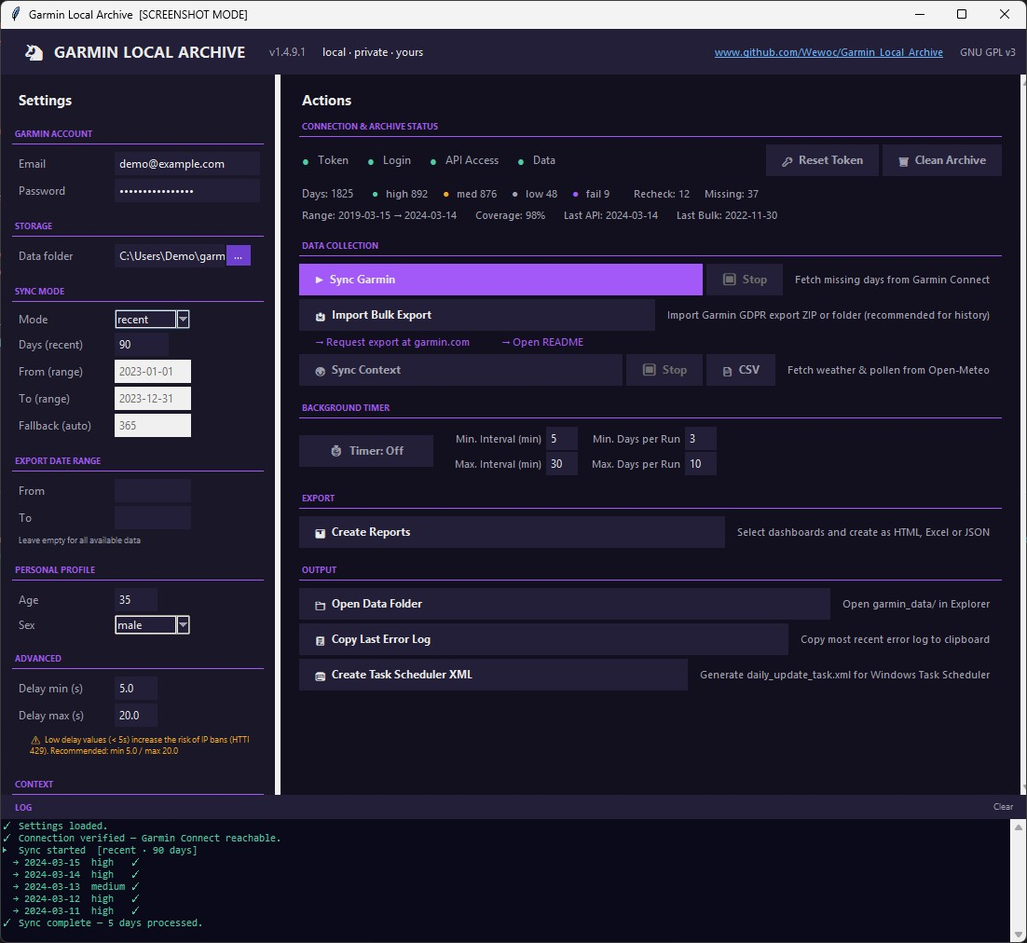
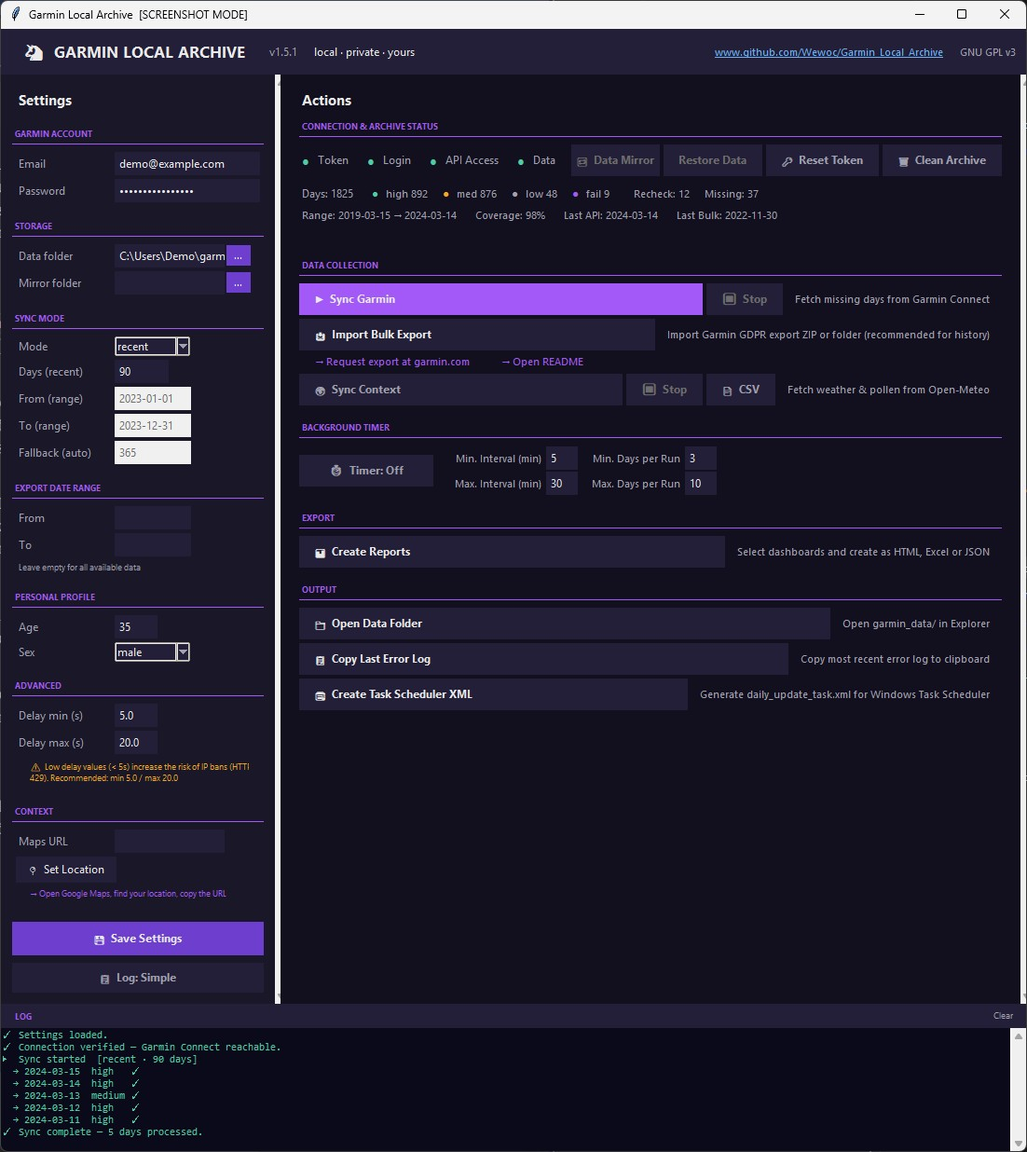
Garmin Local Archive:
## What's new

**Automatic raw file backup**
Every raw file is backed up immediately after writing — incremental, by month. Completed months are stored as ZIP archives in `garmin_data/backup/raw/`. Existing archives are secured on first sync via a one-time backfill (popup on first run after update).

**quality_log.json integrity**
SHA-256 checksum on every save. Verified on every load. Mismatch triggers automatic restore from the latest backup and a warning in the GUI.

**Restore Data**
Startup check compares quality_log against actual raw files. Missing files are restored from backup automatically. Days without backup are listed for manual re-fetch.

**Data Mirror**
One-click copy of the full archive to a second location — NAS, USB, OneDrive, any local path. Configure once in Settings → Mirror folder. Comparison by filename + filesize, token files never mirrored.

## Changed files
`garmin/garmin_quality.py` · `garmin/garmin_writer.py` · `garmin/garmin_config.py` · `garmin_app_base.py` · `garmin_app.py` · `version.py` · `compiler/build_manifest.py`

## New files 
`garmin/garmin_backup.py` · `garmin/garmin_mirror.py`

Changed region(s): [[0.0, 0.0, 1.0, 1.0], [0.9873, 0.9802, 1.0, 1.0]]

diff --git a/screenshots/sleep_dashboard_demo.html b/screenshots/sleep_dashboard_demo.html
@@ -1,0 +1,356 @@
+<!DOCTYPE html>
+<html lang="en">
+<head>
+<meta charset="UTF-8">
+<meta name="viewport" content="width=device-width, initial-scale=1.0">
+<title>Sleep Dashboard</title>
+<style>
+  * { box-sizing: border-box; margin: 0; padding: 0; }
+  body { font-family: Arial, sans-serif; background: #f5f5f5; color: #333; }
+  header { background: #231f38; color: #fff; padding: 16px 24px; }
+  header h1 { font-size: 20px; font-weight: 600; }
+  header p  { font-size: 13px; opacity: 0.75; margin-top: 4px; }
+  .disclaimer { font-size: 11px; color: #888; padding: 8px 24px 0; background: #fff; }
+  footer { text-align: center; padding: 16px; font-size: 11px; color: #999; }
+</style>
+<style>
+.sleep-table { width:100%; border-collapse:collapse; font-family:Arial,sans-serif; font-size:13px; }
+.sleep-table th { background:#1a2a3a; color:#aac; padding:8px 10px; text-align:left; font-size:12px; font-weight:600; border-bottom:2px solid #2d6a9f; }
+.sleep-table tr:nth-child(even) { background:#111c26; }
+.sleep-table tr:nth-child(odd)  { background:#0d1720; }
+.sleep-table tr:hover           { background:#1a2d40; }
+.sleep-table td { color: #ccc; }
+</style>
+</head>
+<body>
+
+<header>
+  <h1>🦄 GARMIN LOCAL ARCHIVE - Sleep Dashboard</h1>
+  <p>2025-04-01 → 2025-04-14 · Sleep · HRV · Body Battery</p>
+</header>
+<div class="disclaimer">For personal informational use only — not medical advice. Data sourced from Garmin Connect via unofficial API.</div>
+
+<div style="padding:16px 24px;">
+<table class="sleep-table">
+<thead>
+<tr>
+  <th>Date</th>
+  <th>Sleep Phases</th>
+  <th>Duration</th>
+  <th>Score</th>
+  <th>Quality</th>
+  <th>Feedback</th>
+  <th style="border-left:2px solid #2d6a9f;">HRV</th>
+  <th>Body Battery</th>
+  <th>HRV 7d Ø</th>
+</tr>
+</thead>
+<tbody>
+
+<!-- Row 1: EXCELLENT night -->
+<tr>
+  <td style="white-space:nowrap;padding:6px 10px;color:#ccc;">2025-04-14</td>
+  <td style="padding:6px 10px;min-width:160px;">
+    <div style="display:flex;width:100%;height:18px;border-radius:3px;overflow:hidden;">
+      <div style="flex:19.2;background:#2d6a9f;display:flex;align-items:center;justify-content:center;font-size:9px;color:#fff;overflow:hidden;" title="Deep: 19.2%">D</div>
+      <div style="flex:52.1;background:#7eb8d4;display:flex;align-items:center;justify-content:center;font-size:9px;color:#fff;overflow:hidden;" title="Light: 52.1%">L</div>
+      <div style="flex:22.4;background:#9b7fc7;display:flex;align-items:center;justify-content:center;font-size:9px;color:#fff;overflow:hidden;" title="REM: 22.4%">R</div>
+      <div style="flex:6.3;background:#d4c5a9;display:flex;align-items:center;justify-content:center;font-size:9px;color:#555;overflow:hidden;" title="Awake: 6.3%">A</div>
+    </div>
+  </td>
+  <td style="padding:6px 10px;text-align:center;font-weight:700;color:hsl(101, 65%, 45%);">7.8h</td>
+  <td style="padding:6px 10px;text-align:center;font-weight:700;color:hsl(110, 65%, 45%);">88</td>
+  <td style="padding:6px 10px;text-align:center;"><span style="background:#d4f5e5;color:#1a7a4a;padding:2px 7px;border-radius:10px;font-size:11px;font-weight:600;">EXCELLENT</span></td>
+  <td style="padding:6px 10px;"><span style="color:#aaa;font-size:12px;">High Resting Heart Rate · Not Enough Deep</span></td>
+  <td style="padding:6px 10px;text-align:center;border-left:2px solid #333;font-weight:700;color:hsl(104, 65%, 45%);">62</td>
+  <td style="padding:6px 10px;text-align:center;font-weight:700;color:hsl(114, 65%, 45%);">91</td>
+  <td style="padding:6px 10px;text-align:center;color:hsl(53, 65%, 45%);font-size:12px;">52.1</td>
+</tr>
+
+<!-- Row 2: GOOD night -->
+<tr>
+  <td style="white-space:nowrap;padding:6px 10px;color:#ccc;">2025-04-13</td>
+  <td style="padding:6px 10px;min-width:160px;">
+    <div style="display:flex;width:100%;height:18px;border-radius:3px;overflow:hidden;">
+      <div style="flex:16.5;background:#2d6a9f;display:flex;align-items:center;justify-content:center;font-size:9px;color:#fff;overflow:hidden;" title="Deep: 16.5%">D</div>
+      <div style="flex:55.3;background:#7eb8d4;display:flex;align-items:center;justify-content:center;font-size:9px;color:#fff;overflow:hidden;" title="Light: 55.3%">L</div>
+      <div style="flex:20.8;background:#9b7fc7;display:flex;align-items:center;justify-content:center;font-size:9px;color:#fff;overflow:hidden;" title="REM: 20.8%">R</div>
+      <div style="flex:7.4;background:#d4c5a9;display:flex;align-items:center;justify-content:center;font-size:9px;color:#555;overflow:hidden;" title="Awake: 7.4%">A</div>
+    </div>
+  </td>
+  <td style="padding:6px 10px;text-align:center;font-weight:700;color:hsl(78, 65%, 45%);">7.4h</td>
+  <td style="padding:6px 10px;text-align:center;font-weight:700;color:hsl(93, 65%, 45%);">82</td>
+  <td style="padding:6px 10px;text-align:center;"><span style="background:#d4f0f0;color:#1a6a6a;padding:2px 7px;border-radius:10px;font-size:11px;font-weight:600;">GOOD</span></td>
+  <td style="padding:6px 10px;"><span style="color:#aaa;font-size:12px;">Not Enough Deep</span></td>
+  <td style="padding:6px 10px;text-align:center;border-left:2px solid #333;font-weight:700;color:hsl(90, 65%, 45%);">58</td>
+  <td style="padding:6px 10px;text-align:center;font-weight:700;color:hsl(96, 65%, 45%);">84</td>
+  <td style="padding:6px 10px;text-align:center;color:hsl(50, 65%, 45%);font-size:12px;">50.9</td>
+</tr>
+
+<!-- Row 3: FAIR night -->
+<tr>
+  <td style="white-space:nowrap;padding:6px 10px;color:#ccc;">2025-04-12</td>
+  <td style="padding:6px 10px;min-width:160px;">
+    <div style="display:flex;width:100%;height:18px;border-radius:3px;overflow:hidden;">
+      <div style="flex:12.1;background:#2d6a9f;display:flex;align-items:center;justify-content:center;font-size:9px;color:#fff;overflow:hidden;" title="Deep: 12.1%">D</div>
+      <div style="flex:58.7;background:#7eb8d4;display:flex;align-items:center;justify-content:center;font-size:9px;color:#fff;overflow:hidden;" title="Light: 58.7%">L</div>
+      <div style="flex:18.2;background:#9b7fc7;display:flex;align-items:center;justify-content:center;font-size:9px;color:#fff;overflow:hidden;" title="REM: 18.2%">R</div>
+      <div style="flex:11.0;background:#d4c5a9;display:flex;align-items:center;justify-content:center;font-size:9px;color:#555;overflow:hidden;" title="Awake: 11.0%">A</div>
+    </div>
+  </td>
+  <td style="padding:6px 10px;text-align:center;font-weight:700;color:hsl(42, 65%, 45%);">6.9h</td>
+  <td style="padding:6px 10px;text-align:center;font-weight:700;color:hsl(67, 65%, 45%);">72</td>
+  <td style="padding:6px 10px;text-align:center;"><span style="background:#fff3cc;color:#8a6a00;padding:2px 7px;border-radius:10px;font-size:11px;font-weight:600;">FAIR</span></td>
+  <td style="padding:6px 10px;"><span style="color:#aaa;font-size:12px;">Long But Not Enough REM</span></td>
+  <td style="padding:6px 10px;text-align:center;border-left:2px solid #333;font-weight:700;color:hsl(60, 65%, 45%);">48</td>
+  <td style="padding:6px 10px;text-align:center;font-weight:700;color:hsl(72, 65%, 45%);">72</td>
+  <td style="padding:6px 10px;text-align:center;color:hsl(40, 65%, 45%);font-size:12px;">46.6</td>
+</tr>
+
+<!-- Row 4: GOOD night -->
+<tr>
+  <td style="white-space:nowrap;padding:6px 10px;color:#ccc;">2025-04-11</td>
+  <td style="padding:6px 10px;min-width:160px;">
+    <div style="display:flex;width:100%;height:18px;border-radius:3px;overflow:hidden;">
+      <div style="flex:17.8;background:#2d6a9f;display:flex;align-items:center;justify-content:center;font-size:9px;color:#fff;overflow:hidden;" title="Deep: 17.8%">D</div>
+      <div style="flex:53.4;background:#7eb8d4;display:flex;align-items:center;justify-content:center;font-size:9px;color:#fff;overflow:hidden;" title="Light: 53.4%">L</div>
+      <div style="flex:21.6;background:#9b7fc7;display:flex;align-items:center;justify-content:center;font-size:9px;color:#fff;overflow:hidden;" title="REM: 21.6%">R</div>
+      <div style="flex:7.2;background:#d4c5a9;display:flex;align-items:center;justify-content:center;font-size:9px;color:#555;overflow:hidden;" title="Awake: 7.2%">A</div>
+    </div>
+  </td>
+  <td style="padding:6px 10px;text-align:center;font-weight:700;color:hsl(90, 65%, 45%);">7.6h</td>
+  <td style="padding:6px 10px;text-align:center;font-weight:700;color:hsl(87, 65%, 45%);">80</td>
+  <td style="padding:6px 10px;text-align:center;"><span style="background:#d4f0f0;color:#1a6a6a;padding:2px 7px;border-radius:10px;font-size:11px;font-weight:600;">GOOD</span></td>
+  <td style="padding:6px 10px;"><span style="color:#aaa;font-size:12px;">—</span></td>
+  <td style="padding:6px 10px;text-align:center;border-left:2px solid #333;font-weight:700;color:hsl(84, 65%, 45%);">56</td>
+  <td style="padding:6px 10px;text-align:center;font-weight:700;color:hsl(102, 65%, 45%);">87</td>
+  <td style="padding:6px 10px;text-align:center;color:hsl(39, 65%, 45%);font-size:12px;">46.3</td>
+</tr>
+
+<!-- Row 5: POOR night -->
+<tr>
+  <td style="white-space:nowrap;padding:6px 10px;color:#ccc;">2025-04-10</td>
+  <td style="padding:6px 10px;min-width:160px;">
+    <div style="display:flex;width:100%;height:18px;border-radius:3px;overflow:hidden;">
+      <div style="flex:8.4;background:#2d6a9f;display:flex;align-items:center;justify-content:center;font-size:9px;color:#fff;overflow:hidden;" title="Deep: 8.4%">D</div>
+      <div style="flex:62.1;background:#7eb8d4;display:flex;align-items:center;justify-content:center;font-size:9px;color:#fff;overflow:hidden;" title="Light: 62.1%">L</div>
+      <div style="flex:13.6;background:#9b7fc7;display:flex;align-items:center;justify-content:center;font-size:9px;color:#fff;overflow:hidden;" title="REM: 13.6%">R</div>
+      <div style="flex:15.9;background:#d4c5a9;display:flex;align-items:center;justify-content:center;font-size:9px;color:#555;overflow:hidden;" title="Awake: 15.9%">A</div>
+    </div>
+  </td>
+  <td style="padding:6px 10px;text-align:center;font-weight:700;color:hsl(12, 65%, 45%);">6.1h</td>
+  <td style="padding:6px 10px;text-align:center;font-weight:700;color:hsl(27, 65%, 45%);">58</td>
+  <td style="padding:6px 10px;text-align:center;"><span style="background:#ffe0d0;color:#8a2000;padding:2px 7px;border-radius:10px;font-size:11px;font-weight:600;">POOR</span></td>
+  <td style="padding:6px 10px;"><span style="color:#aaa;font-size:12px;">Short · Not Enough Deep · Not Enough REM</span></td>
+  <td style="padding:6px 10px;text-align:center;border-left:2px solid #333;font-weight:700;color:hsl(18, 65%, 45%);">31</td>
+  <td style="padding:6px 10px;text-align:center;font-weight:700;color:hsl(24, 65%, 45%);">47</td>
+  <td style="padding:6px 10px;text-align:center;color:hsl(39, 65%, 45%);font-size:12px;">46.4</td>
+</tr>
+
+<!-- Row 6: FAIR night -->
+<tr>
+  <td style="white-space:nowrap;padding:6px 10px;color:#ccc;">2025-04-09</td>
+  <td style="padding:6px 10px;min-width:160px;">
+    <div style="display:flex;width:100%;height:18px;border-radius:3px;overflow:hidden;">
+      <div style="flex:14.3;background:#2d6a9f;display:flex;align-items:center;justify-content:center;font-size:9px;color:#fff;overflow:hidden;" title="Deep: 14.3%">D</div>
+      <div style="flex:56.8;background:#7eb8d4;display:flex;align-items:center;justify-content:center;font-size:9px;color:#fff;overflow:hidden;" title="Light: 56.8%">L</div>
+      <div style="flex:19.7;background:#9b7fc7;display:flex;align-items:center;justify-content:center;font-size:9px;color:#fff;overflow:hidden;" title="REM: 19.7%">R</div>
+      <div style="flex:9.2;background:#d4c5a9;display:flex;align-items:center;justify-content:center;font-size:9px;color:#555;overflow:hidden;" title="Awake: 9.2%">A</div>
+    </div>
+  </td>
+  <td style="padding:6px 10px;text-align:center;font-weight:700;color:hsl(54, 65%, 45%);">7.1h</td>
+  <td style="padding:6px 10px;text-align:center;font-weight:700;color:hsl(60, 65%, 45%);">70</td>
+  <td style="padding:6px 10px;text-align:center;"><span style="background:#fff3cc;color:#8a6a00;padding:2px 7px;border-radius:10px;font-size:11px;font-weight:600;">FAIR</span></td>
+  <td style="padding:6px 10px;"><span style="color:#aaa;font-size:12px;">High Stress · Not Enough Deep</span></td>
+  <td style="padding:6px 10px;text-align:center;border-left:2px solid #333;font-weight:700;color:hsl(48, 65%, 45%);">44</td>
+  <td style="padding:6px 10px;text-align:center;font-weight:700;color:hsl(60, 65%, 45%);">68</td>
+  <td style="padding:6px 10px;text-align:center;color:hsl(50, 65%, 45%);font-size:12px;">51.0</td>
+</tr>
+
+<!-- Row 7: EXCELLENT night -->
+<tr>
+  <td style="white-space:nowrap;padding:6px 10px;color:#ccc;">2025-04-08</td>
+  <td style="padding:6px 10px;min-width:160px;">
+    <div style="display:flex;width:100%;height:18px;border-radius:3px;overflow:hidden;">
+      <div style="flex:21.1;background:#2d6a9f;display:flex;align-items:center;justify-content:center;font-size:9px;color:#fff;overflow:hidden;" title="Deep: 21.1%">D</div>
+      <div style="flex:49.6;background:#7eb8d4;display:flex;align-items:center;justify-content:center;font-size:9px;color:#fff;overflow:hidden;" title="Light: 49.6%">L</div>
+      <div style="flex:23.8;background:#9b7fc7;display:flex;align-items:center;justify-content:center;font-size:9px;color:#fff;overflow:hidden;" title="REM: 23.8%">R</div>
+      <div style="flex:5.5;background:#d4c5a9;display:flex;align-items:center;justify-content:center;font-size:9px;color:#555;overflow:hidden;" title="Awake: 5.5%">A</div>
+    </div>
+  </td>
+  <td style="padding:6px 10px;text-align:center;font-weight:700;color:hsl(108, 65%, 45%);">8.1h</td>
+  <td style="padding:6px 10px;text-align:center;font-weight:700;color:hsl(115, 65%, 45%);">91</td>
+  <td style="padding:6px 10px;text-align:center;"><span style="background:#d4f5e5;color:#1a7a4a;padding:2px 7px;border-radius:10px;font-size:11px;font-weight:600;">EXCELLENT</span></td>
+  <td style="padding:6px 10px;"><span style="color:#aaa;font-size:12px;">—</span></td>
+  <td style="padding:6px 10px;text-align:center;border-left:2px solid #333;font-weight:700;color:hsl(110, 65%, 45%);">66</td>
+  <td style="padding:6px 10px;text-align:center;font-weight:700;color:hsl(118, 65%, 45%);">96</td>
+  <td style="padding:6px 10px;text-align:center;color:hsl(53, 65%, 45%);font-size:12px;">52.1</td>
+</tr>
+
+<!-- Row 8: GOOD night -->
+<tr>
+  <td style="white-space:nowrap;padding:6px 10px;color:#ccc;">2025-04-07</td>
+  <td style="padding:6px 10px;min-width:160px;">
+    <div style="display:flex;width:100%;height:18px;border-radius:3px;overflow:hidden;">
+      <div style="flex:15.9;background:#2d6a9f;display:flex;align-items:center;justify-content:center;font-size:9px;color:#fff;overflow:hidden;" title="Deep: 15.9%">D</div>
+      <div style="flex:54.2;background:#7eb8d4;display:flex;align-items:center;justify-content:center;font-size:9px;color:#fff;overflow:hidden;" title="Light: 54.2%">L</div>
+      <div style="flex:22.1;background:#9b7fc7;display:flex;align-items:center;justify-content:center;font-size:9px;color:#fff;overflow:hidden;" title="REM: 22.1%">R</div>
+      <div style="flex:7.8;background:#d4c5a9;display:flex;align-items:center;justify-content:center;font-size:9px;color:#555;overflow:hidden;" title="Awake: 7.8%">A</div>
+    </div>
+  </td>
+  <td style="padding:6px 10px;text-align:center;font-weight:700;color:hsl(72, 65%, 45%);">7.3h</td>
+  <td style="padding:6px 10px;text-align:center;font-weight:700;color:hsl(84, 65%, 45%);">78</td>
+  <td style="padding:6px 10px;text-align:center;"><span style="background:#d4f0f0;color:#1a6a6a;padding:2px 7px;border-radius:10px;font-size:11px;font-weight:600;">GOOD</span></td>
+  <td style="padding:6px 10px;"><span style="color:#aaa;font-size:12px;">Not Enough Deep</span></td>
+  <td style="padding:6px 10px;text-align:center;border-left:2px solid #333;font-weight:700;color:hsl(78, 65%, 45%);">53</td>
+  <td style="padding:6px 10px;text-align:center;font-weight:700;color:hsl(90, 65%, 45%);">80</td>
+  <td style="padding:6px 10px;text-align:center;color:hsl(45, 65%, 45%);font-size:12px;">48.7</td>
+</tr>
+
+<!-- Row 9: POOR night -->
+<tr>
+  <td style="white-space:nowrap;padding:6px 10px;color:#ccc;">2025-04-06</td>
+  <td style="padding:6px 10px;min-width:160px;">
+    <div style="display:flex;width:100%;height:18px;border-radius:3px;overflow:hidden;">
+      <div style="flex:9.7;background:#2d6a9f;display:flex;align-items:center;justify-content:center;font-size:9px;color:#fff;overflow:hidden;" title="Deep: 9.7%">D</div>
+      <div style="flex:60.4;background:#7eb8d4;display:flex;align-items:center;justify-content:center;font-size:9px;color:#fff;overflow:hidden;" title="Light: 60.4%">L</div>
+      <div style="flex:15.8;background:#9b7fc7;display:flex;align-items:center;justify-content:center;font-size:9px;color:#fff;overflow:hidden;" title="REM: 15.8%">R</div>
+      <div style="flex:14.1;background:#d4c5a9;display:flex;align-items:center;justify-content:center;font-size:9px;color:#555;overflow:hidden;" title="Awake: 14.1%">A</div>
+    </div>
+  </td>
+  <td style="padding:6px 10px;text-align:center;font-weight:700;color:hsl(6, 65%, 45%);">6.0h</td>
+  <td style="padding:6px 10px;text-align:center;font-weight:700;color:hsl(21, 65%, 45%);">55</td>
+  <td style="padding:6px 10px;text-align:center;"><span style="background:#ffe0d0;color:#8a2000;padding:2px 7px;border-radius:10px;font-size:11px;font-weight:600;">POOR</span></td>
+  <td style="padding:6px 10px;"><span style="color:#aaa;font-size:12px;">Short · High Resting Heart Rate</span></td>
+  <td style="padding:6px 10px;text-align:center;border-left:2px solid #333;font-weight:700;color:hsl(12, 65%, 45%);">28</td>
+  <td style="padding:6px 10px;text-align:center;font-weight:700;color:hsl(18, 65%, 45%);">44</td>
+  <td style="padding:6px 10px;text-align:center;color:hsl(43, 65%, 45%);font-size:12px;">48.0</td>
+</tr>
+
+<!-- Row 10: FAIR night -->
+<tr>
+  <td style="white-space:nowrap;padding:6px 10px;color:#ccc;">2025-04-05</td>
+  <td style="padding:6px 10px;min-width:160px;">
+    <div style="display:flex;width:100%;height:18px;border-radius:3px;overflow:hidden;">
+      <div style="flex:13.5;background:#2d6a9f;display:flex;align-items:center;justify-content:center;font-size:9px;color:#fff;overflow:hidden;" title="Deep: 13.5%">D</div>
+      <div style="flex:57.2;background:#7eb8d4;display:flex;align-items:center;justify-content:center;font-size:9px;color:#fff;overflow:hidden;" title="Light: 57.2%">L</div>
+      <div style="flex:20.3;background:#9b7fc7;display:flex;align-items:center;justify-content:center;font-size:9px;color:#fff;overflow:hidden;" title="REM: 20.3%">R</div>
+      <div style="flex:9.0;background:#d4c5a9;display:flex;align-items:center;justify-content:center;font-size:9px;color:#555;overflow:hidden;" title="Awake: 9.0%">A</div>
+    </div>
+  </td>
+  <td style="padding:6px 10px;text-align:center;font-weight:700;color:hsl(48, 65%, 45%);">7.0h</td>
+  <td style="padding:6px 10px;text-align:center;font-weight:700;color:hsl(63, 65%, 45%);">71</td>
+  <td style="padding:6px 10px;text-align:center;"><span style="background:#fff3cc;color:#8a6a00;padding:2px 7px;border-radius:10px;font-size:11px;font-weight:600;">FAIR</span></td>
+  <td style="padding:6px 10px;"><span style="color:#aaa;font-size:12px;">Long But Not Enough REM · Not Enough Deep</span></td>
+  <td style="padding:6px 10px;text-align:center;border-left:2px solid #333;font-weight:700;color:hsl(54, 65%, 45%);">46</td>
+  <td style="padding:6px 10px;text-align:center;font-weight:700;color:hsl(66, 65%, 45%);">70</td>
+  <td style="padding:6px 10px;text-align:center;color:hsl(53, 65%, 45%);font-size:12px;">52.0</td>
+</tr>
+
+<!-- Row 11: GOOD night -->
+<tr>
+  <td style="white-space:nowrap;padding:6px 10px;color:#ccc;">2025-04-04</td>
+  <td style="padding:6px 10px;min-width:160px;">
+    <div style="display:flex;width:100%;height:18px;border-radius:3px;overflow:hidden;">
+      <div style="flex:18.2;background:#2d6a9f;display:flex;align-items:center;justify-content:center;font-size:9px;color:#fff;overflow:hidden;" title="Deep: 18.2%">D</div>
+      <div style="flex:52.7;background:#7eb8d4;display:flex;align-items:center;justify-content:center;font-size:9px;color:#fff;overflow:hidden;" title="Light: 52.7%">L</div>
+      <div style="flex:21.9;background:#9b7fc7;display:flex;align-items:center;justify-content:center;font-size:9px;color:#fff;overflow:hidden;" title="REM: 21.9%">R</div>
+      <div style="flex:7.2;background:#d4c5a9;display:flex;align-items:center;justify-content:center;font-size:9px;color:#555;overflow:hidden;" title="Awake: 7.2%">A</div>
+    </div>
+  </td>
+  <td style="padding:6px 10px;text-align:center;font-weight:700;color:hsl(84, 65%, 45%);">7.5h</td>
+  <td style="padding:6px 10px;text-align:center;font-weight:700;color:hsl(90, 65%, 45%);">81</td>
+  <td style="padding:6px 10px;text-align:center;"><span style="background:#d4f0f0;color:#1a6a6a;padding:2px 7px;border-radius:10px;font-size:11px;font-weight:600;">GOOD</span></td>
+  <td style="padding:6px 10px;"><span style="color:#aaa;font-size:12px;">—</span></td>
+  <td style="padding:6px 10px;text-align:center;border-left:2px solid #333;font-weight:700;color:hsl(87, 65%, 45%);">57</td>
+  <td style="padding:6px 10px;text-align:center;font-weight:700;color:hsl(99, 65%, 45%);">85</td>
+  <td style="padding:6px 10px;text-align:center;color:hsl(56, 65%, 45%);font-size:12px;">53.5</td>
+</tr>
+
+<!-- Row 12: EXCELLENT night -->
+<tr>
+  <td style="white-space:nowrap;padding:6px 10px;color:#ccc;">2025-04-03</td>
+  <td style="padding:6px 10px;min-width:160px;">
+    <div style="display:flex;width:100%;height:18px;border-radius:3px;overflow:hidden;">
+      <div style="flex:20.4;background:#2d6a9f;display:flex;align-items:center;justify-content:center;font-size:9px;color:#fff;overflow:hidden;" title="Deep: 20.4%">D</div>
+      <div style="flex:50.3;background:#7eb8d4;display:flex;align-items:center;justify-content:center;font-size:9px;color:#fff;overflow:hidden;" title="Light: 50.3%">L</div>
+      <div style="flex:23.1;background:#9b7fc7;display:flex;align-items:center;justify-content:center;font-size:9px;color:#fff;overflow:hidden;" title="REM: 23.1%">R</div>
+      <div style="flex:6.2;background:#d4c5a9;display:flex;align-items:center;justify-content:center;font-size:9px;color:#555;overflow:hidden;" title="Awake: 6.2%">A</div>
+    </div>
+  </td>
+  <td style="padding:6px 10px;text-align:center;font-weight:700;color:hsl(96, 65%, 45%);">7.7h</td>
+  <td style="padding:6px 10px;text-align:center;font-weight:700;color:hsl(112, 65%, 45%);">89</td>
+  <td style="padding:6px 10px;text-align:center;"><span style="background:#d4f5e5;color:#1a7a4a;padding:2px 7px;border-radius:10px;font-size:11px;font-weight:600;">EXCELLENT</span></td>
+  <td style="padding:6px 10px;"><span style="color:#aaa;font-size:12px;">—</span></td>
+  <td style="padding:6px 10px;text-align:center;border-left:2px solid #333;font-weight:700;color:hsl(100, 65%, 45%);">63</td>
+  <td style="padding:6px 10px;text-align:center;font-weight:700;color:hsl(114, 65%, 45%);">93</td>
+  <td style="padding:6px 10px;text-align:center;color:hsl(54, 65%, 45%);font-size:12px;">52.3</td>
+</tr>
+
+<!-- Row 13: GOOD night -->
+<tr>
+  <td style="white-space:nowrap;padding:6px 10px;color:#ccc;">2025-04-02</td>
+  <td style="padding:6px 10px;min-width:160px;">
+    <div style="display:flex;width:100%;height:18px;border-radius:3px;overflow:hidden;">
+      <div style="flex:16.0;background:#2d6a9f;display:flex;align-items:center;justify-content:center;font-size:9px;color:#fff;overflow:hidden;" title="Deep: 16.0%">D</div>
+      <div style="flex:54.9;background:#7eb8d4;display:flex;align-items:center;justify-content:center;font-size:9px;color:#fff;overflow:hidden;" title="Light: 54.9%">L</div>
+      <div style="flex:21.3;background:#9b7fc7;display:flex;align-items:center;justify-content:center;font-size:9px;color:#fff;overflow:hidden;" title="REM: 21.3%">R</div>
+      <div style="flex:7.8;background:#d4c5a9;display:flex;align-items:center;justify-content:center;font-size:9px;color:#555;overflow:hidden;" title="Awake: 7.8%">A</div>
+    </div>
+  </td>
+  <td style="padding:6px 10px;text-align:center;font-weight:700;color:hsl(75, 65%, 45%);">7.4h</td>
+  <td style="padding:6px 10px;text-align:center;font-weight:700;color:hsl(81, 65%, 45%);">77</td>
+  <td style="padding:6px 10px;text-align:center;"><span style="background:#d4f0f0;color:#1a6a6a;padding:2px 7px;border-radius:10px;font-size:11px;font-weight:600;">GOOD</span></td>
+  <td style="padding:6px 10px;"><span style="color:#aaa;font-size:12px;">Not Enough Deep</span></td>
+  <td style="padding:6px 10px;text-align:center;border-left:2px solid #333;font-weight:700;color:hsl(75, 65%, 45%);">52</td>
+  <td style="padding:6px 10px;text-align:center;font-weight:700;color:hsl(84, 65%, 45%);">78</td>
+  <td style="padding:6px 10px;text-align:center;color:hsl(41, 65%, 45%);font-size:12px;">47.0</td>
+</tr>
+
+<!-- Row 14: FAIR night -->
+<tr>
+  <td style="white-space:nowrap;padding:6px 10px;color:#ccc;">2025-04-01</td>
+  <td style="padding:6px 10px;min-width:160px;">
+    <div style="display:flex;width:100%;height:18px;border-radius:3px;overflow:hidden;">
+      <div style="flex:11.8;background:#2d6a9f;display:flex;align-items:center;justify-content:center;font-size:9px;color:#fff;overflow:hidden;" title="Deep: 11.8%">D</div>
+      <div style="flex:59.3;background:#7eb8d4;display:flex;align-items:center;justify-content:center;font-size:9px;color:#fff;overflow:hidden;" title="Light: 59.3%">L</div>
+      <div style="flex:18.9;background:#9b7fc7;display:flex;align-items:center;justify-content:center;font-size:9px;color:#fff;overflow:hidden;" title="REM: 18.9%">R</div>
+      <div style="flex:10.0;background:#d4c5a9;display:flex;align-items:center;justify-content:center;font-size:9px;color:#555;overflow:hidden;" title="Awake: 10.0%">A</div>
+    </div>
+  </td>
+  <td style="padding:6px 10px;text-align:center;font-weight:700;color:hsl(30, 65%, 45%);">6.8h</td>
+  <td style="padding:6px 10px;text-align:center;font-weight:700;color:hsl(57, 65%, 45%);">69</td>
+  <td style="padding:6px 10px;text-align:center;"><span style="background:#fff3cc;color:#8a6a00;padding:2px 7px;border-radius:10px;font-size:11px;font-weight:600;">FAIR</span></td>
+  <td style="padding:6px 10px;"><span style="color:#aaa;font-size:12px;">High Resting Heart Rate · Not Enough Deep</span></td>
+  <td style="padding:6px 10px;text-align:center;border-left:2px solid #333;font-weight:700;color:hsl(42, 65%, 45%);">42</td>
+  <td style="padding:6px 10px;text-align:center;font-weight:700;color:hsl(54, 65%, 45%);">65</td>
+  <td style="padding:6px 10px;text-align:center;color:hsl(29, 65%, 45%);font-size:12px;">42.0</td>
+</tr>
+
+</tbody>
+</table>
+
+<!-- Phase legend -->
+<div style="display:flex;gap:16px;margin-top:12px;padding:8px 4px;flex-wrap:wrap;">
+  <div style="display:flex;align-items:center;gap:6px;font-size:11px;color:#888;">
+    <div style="width:14px;height:14px;background:#2d6a9f;border-radius:2px;"></div> Deep
+  </div>
+  <div style="display:flex;align-items:center;gap:6px;font-size:11px;color:#888;">
+    <div style="width:14px;height:14px;background:#7eb8d4;border-radius:2px;"></div> Light
+  </div>
+  <div style="display:flex;align-items:center;gap:6px;font-size:11px;color:#888;">
+    <div style="width:14px;height:14px;background:#9b7fc7;border-radius:2px;"></div> REM
+  </div>
+  <div style="display:flex;align-items:center;gap:6px;font-size:11px;color:#888;">
+    <div style="width:14px;height:14px;background:#d4c5a9;border-radius:2px;"></div> Awake
+  </div>
+  <div style="margin-left:16px;font-size:11px;color:#666;">
+    Color intensity: gradient against personal reference ranges (HRV 30–80 ms · Duration 7.0–9.0 h · Body Battery 50–100)
+  </div>
+</div>
+
+</div>
+
+<footer>Garmin Local Archive · github.com/Wewoc/Garmin_Local_Archive · Demo data — not real health data</footer>
+</body>
+</html>
